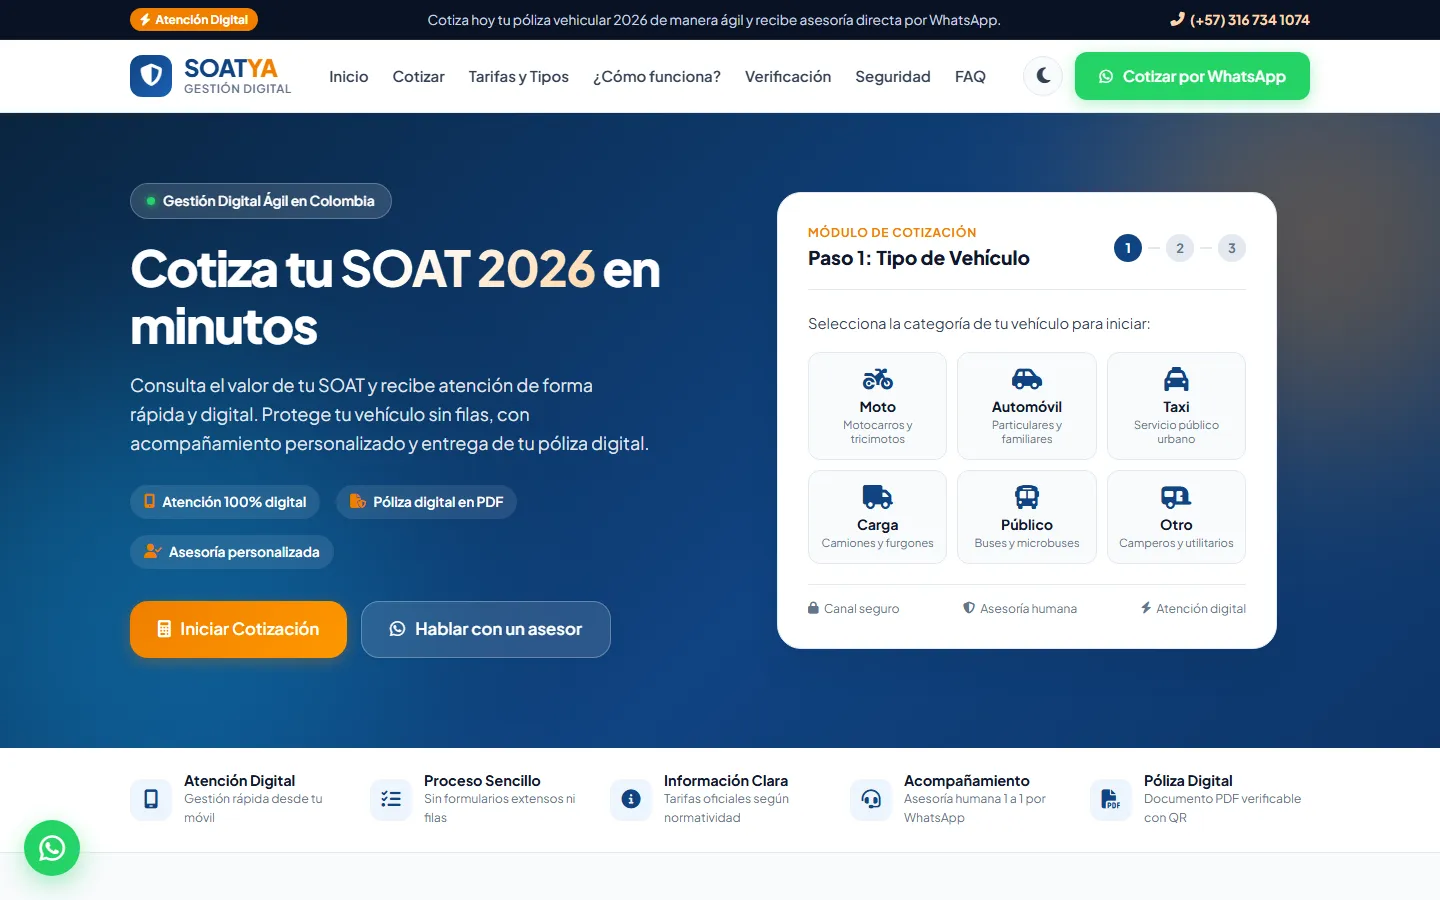
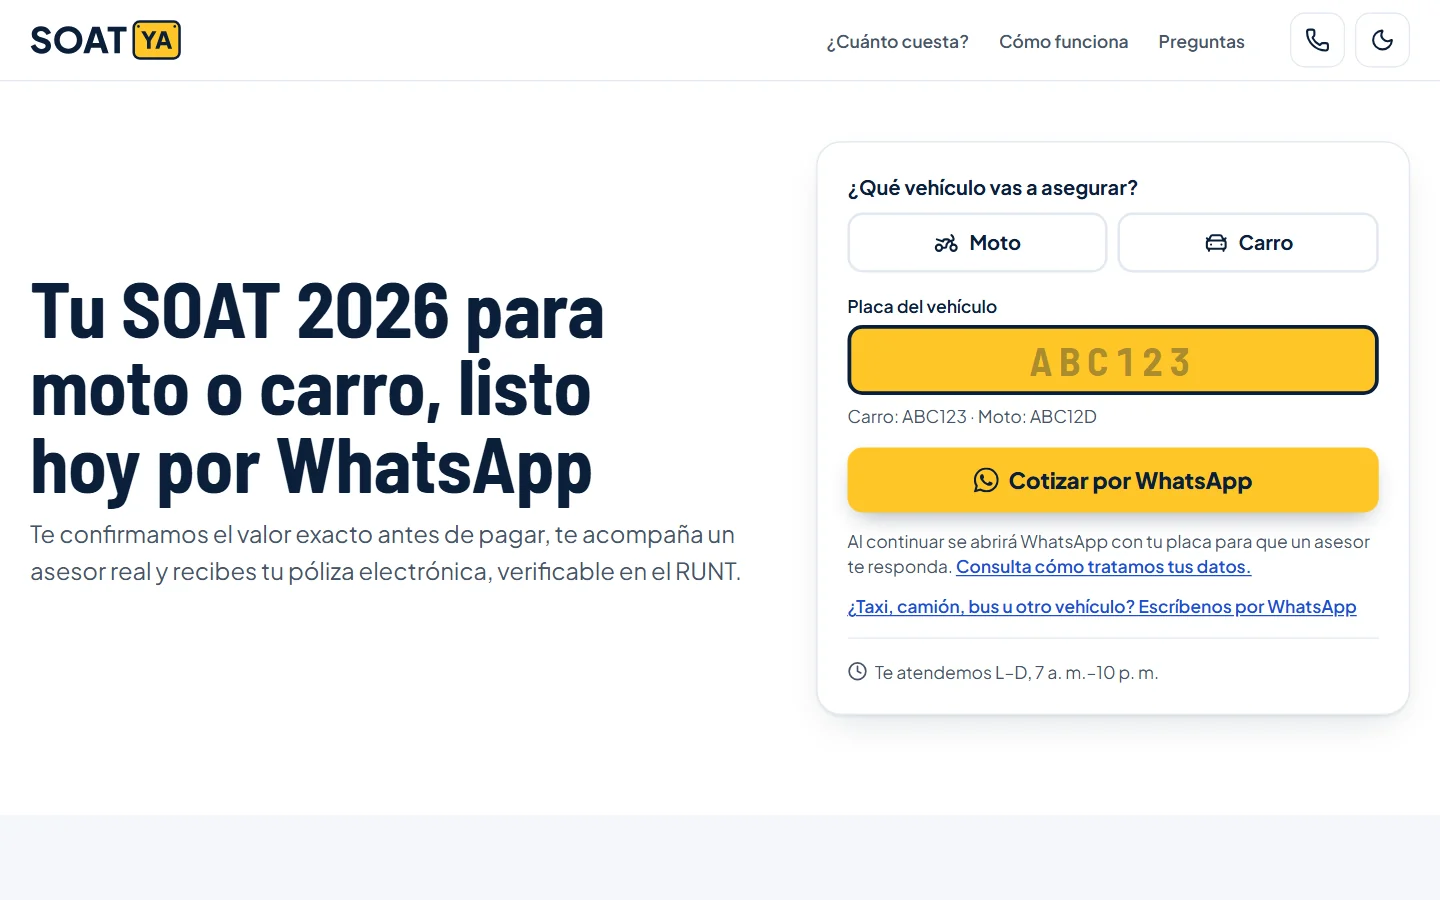
Actualiza el caso SOAT YA y corrige la imagen para compartir de los proyectos
- Caso SOAT YA: textos nuevos en español e inglés para el sitio rediseñado en
  Astro, herramientas actualizadas y la etiqueta "Trabajo real". El botón de
  demo sigue apuntando a GitHub Pages.
- Portada nueva en 16:10 (1440x900) para que no se corte en las tarjetas.
- La imagen para compartir (og:image) de las páginas de proyecto llevaba /cb
  dos veces y daba 404. Ahora es una URL absoluta y una prueba E2E comprueba
  que la imagen exista en todas las páginas.
- En las tarjetas, los nombres de las herramientas ya no se parten entre líneas.

diff --git a/tests/e2e/pages.spec.ts b/tests/e2e/pages.spec.ts
@@ -22,6 +22,11 @@ test.describe('Todas las páginas', () => {
         'content',
         /^https?:\/\//,
       );
+      // La imagen para compartir debe existir. Su URL apunta al dominio publicado, así que se pide
+      // la misma ruta al servidor de pruebas.
+      const ogImage = await page.locator('meta[property="og:image"]').getAttribute('content');
+      const ogResponse = await page.request.get(new URL(ogImage ?? '').pathname);
+      expect(ogResponse.status(), `og:image ${ogImage}`).toBe(200);
       await expect(page.locator('meta[http-equiv="content-security-policy"]')).toHaveCount(1);
 
       // Ninguna página debe desbordar horizontalmente.

diff --git a/tests/e2e/i18n.spec.ts b/tests/e2e/i18n.spec.ts
@@ -32,7 +32,7 @@ test.describe('Idiomas (español por defecto e inglés)', () => {
     await page.getByRole('link', { name: 'English' }).click();
     await expect(page).toHaveURL(withBase('/en/projects/soat-ya'));
     await expect(page.locator('html')).toHaveAttribute('lang', 'en');
-    await expect(page.getByRole('heading', { level: 1 })).toContainText('SOAT Ya');
+    await expect(page.getByRole('heading', { level: 1 })).toContainText('SOAT YA');
     await expect(page.getByRole('link', { name: 'English' })).toHaveAttribute(
       'aria-current',
       'true',

diff --git a/src/content/projects/en/soat-ya.md b/src/content/projects/en/soat-ya.md
@@ -1,25 +1,31 @@
 ---
-title: 'SOAT Ya: landing page to quote car insurance'
-summary: 'A sales landing page that takes visitors from doubt to a quote in just a few steps.'
+title: 'SOAT YA: selling vehicle insurance on WhatsApp'
+summary: "A sales landing page for motorcycle and car insurance in Colombia: customers type their plate number and one tap later they're chatting with an agent on WhatsApp."
 category: 'landing'
-kind: 'demo'
+kind: 'real'
 order: 4
 cover: '../../../assets/projects/soat-ya.webp'
-coverAlt: 'SOAT Ya landing page with the headline "Get your SOAT quote in minutes" and a quote form by vehicle type.'
-problem: "Buying mandatory car insurance (SOAT) online raises questions. If the page isn't clear, visitors leave without getting a quote."
-solution: 'A landing page built for conversion: the offer up top, followed by a quote tool by vehicle type, benefits, FAQs and direct contact on WhatsApp.'
-result: 'A published demo that gets users to a quote in as few steps as possible.'
+coverAlt: 'SOAT YA hero with the headline "Your 2026 SOAT for motorcycle or car, ready today on WhatsApp" and a quote form with motorcycle and car buttons, a yellow plate field and a WhatsApp quote button.'
+problem: "People shopping for SOAT, Colombia's mandatory vehicle insurance, arrive with three questions: how much will it cost, is the policy real, and will anyone answer? If the page doesn't settle them in seconds, they close the tab and buy somewhere else."
+solution: 'I redesigned the site from scratch and moved it to Astro. Everything revolves around one action: typing the plate number. The quote form opens WhatsApp with the message already written, and an agent confirms the exact price before payment. Further down, each section takes apart an objection: what the price depends on, how buying works step by step, how to spot a fake policy and the questions people ask most.'
+result: 'A live landing page where getting a quote takes just two details, the vehicle and the plate number, with no long forms or sign-ups. It scores 100 in performance, accessibility, best practices and SEO on Lighthouse mobile. Every change goes live automatically on GitHub Pages and Cloudflare Pages, and a test suite keeps an eye on accessibility, SEO and links.'
 highlights:
-  - 'Quote tool by vehicle type'
-  - 'Direct contact on WhatsApp'
-  - 'Content organized to answer questions'
-  - 'Mobile-friendly design'
+  - 'Plate-number quote form that opens WhatsApp with the message ready'
+  - 'Illustrated vehicle registration card that shows what drives the price'
+  - 'Three-step purchase told as a WhatsApp chat'
+  - "Guide to spotting a fake policy and checking it in Colombia's vehicle registry (RUNT)"
+  - 'Sticky mobile bar to message or call at any moment'
+  - 'Automatic publishing to GitHub Pages and Cloudflare Pages'
+idealFor: 'Businesses that close sales on WhatsApp: insurance, paperwork services, repair shops and any service where customers want to talk to a person before paying.'
 stack:
-  - 'HTML5'
-  - 'CSS3'
-  - 'JavaScript'
+  - 'Astro'
+  - 'TypeScript'
+  - 'Tailwind CSS'
+  - 'Playwright'
+  - 'GitHub Actions'
+  - 'Cloudflare Pages'
 aiTools:
-  - 'Gemini'
+  - 'Claude Code'
 service: 'tiendas-landing'
 demoUrl: 'https://cristianbolanos.github.io/soat/'
 repoUrl: 'https://github.com/CristianBolanos/soat'

diff --git a/src/content/projects/es/soat-ya.md b/src/content/projects/es/soat-ya.md
@@ -1,25 +1,31 @@
 ---
-title: 'SOAT Ya: landing para cotizar el SOAT'
-summary: 'Landing page de venta que guía al visitante desde la duda hasta la cotización en pocos pasos.'
+title: 'SOAT YA: landing que vende el SOAT por WhatsApp'
+summary: 'Landing de venta del SOAT para moto y carro: el cliente escribe su placa y en un clic ya está hablando con un asesor por WhatsApp.'
 category: 'landing'
-kind: 'demo'
+kind: 'real'
 order: 4
 cover: '../../../assets/projects/soat-ya.webp'
-coverAlt: 'Landing de SOAT Ya con el titular "Cotiza tu SOAT en minutos" y un cotizador por tipo de vehículo.'
-problem: 'Comprar el SOAT en línea genera dudas. Si la página no es clara, el visitante se va sin cotizar.'
-solution: 'Una landing con estructura de conversión. La propuesta va arriba, seguida de un cotizador por tipo de vehículo, los beneficios, las preguntas frecuentes y un contacto directo por WhatsApp.'
-result: 'Demo publicada que lleva al usuario a la cotización con el menor número de pasos posible.'
+coverAlt: 'Encabezado de SOAT YA con el titular «Tu SOAT 2026 para moto o carro, listo hoy por WhatsApp» y el cotizador: botones de moto y carro, campo amarillo para la placa y botón «Cotizar por WhatsApp».'
+problem: 'Quien busca el SOAT en internet llega con tres preguntas: cuánto le va a costar, si la póliza es de verdad y si alguien le va a contestar. Si la página no las responde en segundos, cierra la pestaña y compra en otro lado.'
+solution: 'Rediseñé el sitio desde cero y lo migré a Astro. Todo gira alrededor de una sola acción: escribir la placa. El cotizador abre WhatsApp con el mensaje ya escrito y un asesor confirma el valor exacto antes del pago. Más abajo, cada sección desarma una objeción: de qué depende el precio, cómo es la compra paso a paso, cómo reconocer un SOAT falso y las preguntas que más se repiten.'
+result: 'Una landing en producción donde cotizar solo pide dos datos, el vehículo y la placa, sin formularios largos ni registros. Obtiene 100 en rendimiento, accesibilidad, buenas prácticas y SEO en Lighthouse para celular. Cada cambio se publica automáticamente en GitHub Pages y Cloudflare Pages, y una batería de pruebas vigila la accesibilidad, el SEO y los enlaces.'
 highlights:
-  - 'Cotizador por tipo de vehículo'
-  - 'Contacto directo por WhatsApp'
-  - 'Contenido organizado para resolver dudas'
-  - 'Diseño adaptable a celulares'
+  - 'Cotizador por placa que abre WhatsApp con el mensaje listo'
+  - 'Licencia de tránsito ilustrada que muestra de qué depende el precio'
+  - 'La compra en tres pasos, contada como un chat de WhatsApp'
+  - 'Guía para reconocer un SOAT falso y verificarlo en el RUNT'
+  - 'Barra fija en celular para escribir o llamar en cualquier momento'
+  - 'Publicación automática en GitHub Pages y Cloudflare Pages'
+idealFor: 'Negocios que cierran sus ventas por WhatsApp: seguros, trámites, talleres y servicios donde el cliente quiere hablar con una persona antes de pagar.'
 stack:
-  - 'HTML5'
-  - 'CSS3'
-  - 'JavaScript'
+  - 'Astro'
+  - 'TypeScript'
+  - 'Tailwind CSS'
+  - 'Playwright'
+  - 'GitHub Actions'
+  - 'Cloudflare Pages'
 aiTools:
-  - 'Gemini'
+  - 'Claude Code'
 service: 'tiendas-landing'
 demoUrl: 'https://cristianbolanos.github.io/soat/'
 repoUrl: 'https://github.com/CristianBolanos/soat'
